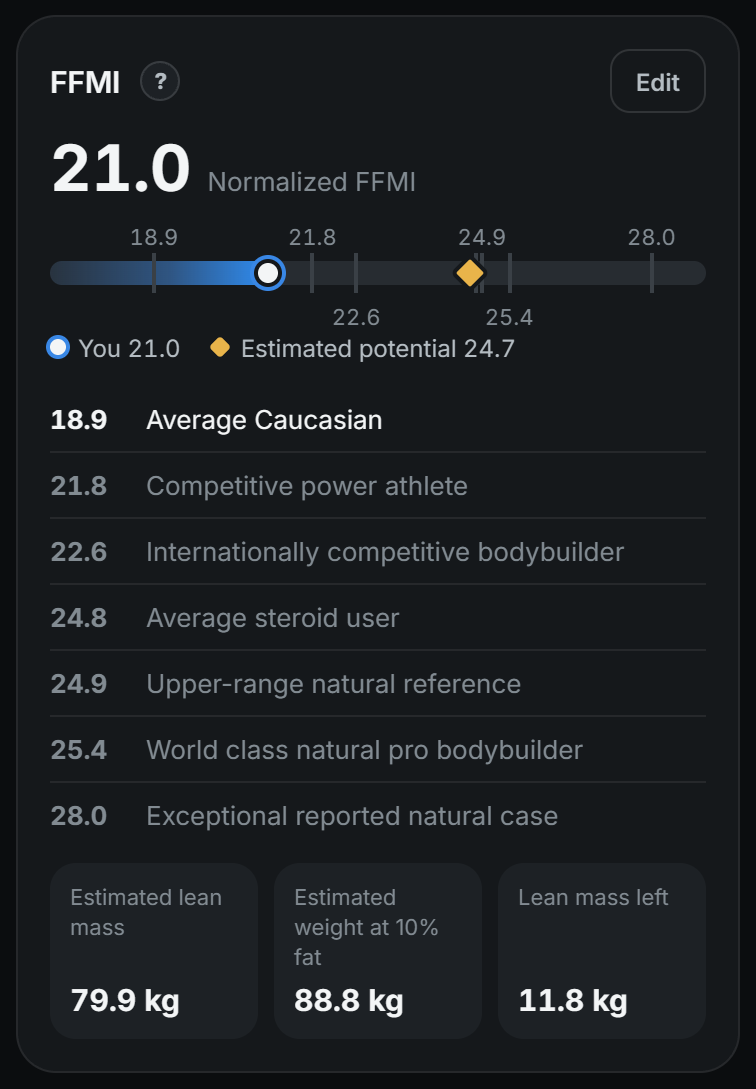
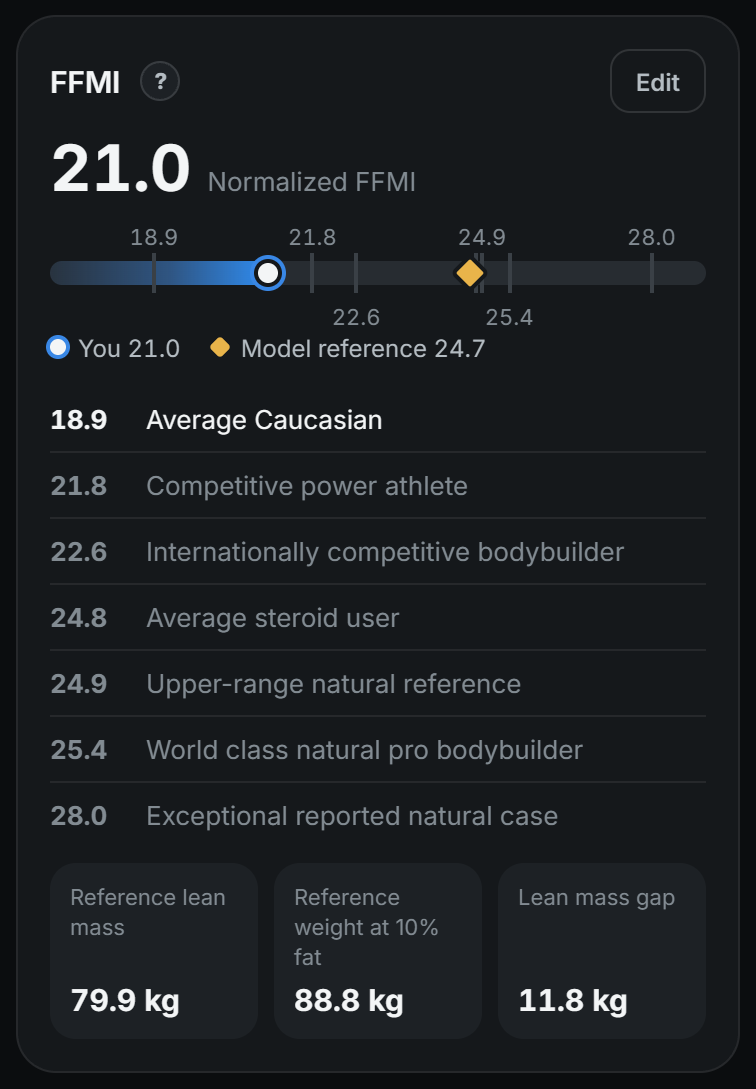
Summarise FFMI methodology and label model reference benchmarks

diff --git a/frontend/src/FfmiHelp.tsx b/frontend/src/FfmiHelp.tsx
@@ -34,9 +34,9 @@ export function FfmiHelp({ title = 'FFMI', children }: { title?: string; childre
             <>
               {children ?? (
                 <p>
-                  FFMI compares fat-free mass with height. The potential marker is a model estimate,
-                  while the comparison labels describe research reference points, including
-                  exceptional cases. They are guides, not guaranteed personal limits.
+                  FFMI compares fat-free mass with height. The model reference is a benchmark based
+                  on groups of trained lifters. It uses the selected profile for comparison, rather
+                  than predicting your personal genetic limit.
                 </p>
               )}
               <p>
@@ -52,68 +52,29 @@ export function FfmiHelp({ title = 'FFMI', children }: { title?: string; childre
           ) : (
             <>
               <p>
-                <strong>Your score.</strong> FFMI relates fat-free mass to height. Fat-free mass
-                includes muscle, bone, organs and water. We use your latest weigh-in with body fat,
-                divide lean mass in kg by height in metres squared, then adjust men to 1.8 m and
-                divide women&apos;s scores by 0.81 for the comparison scale.
+                <strong>Your score.</strong> FFMI is estimated fat-free mass in kg divided by height
+                in metres squared, with height and sex adjustments. Fat-free mass is estimated from
+                weight and body fat; it includes muscle, bone, organs and water.
               </p>
               <p>
-                <strong>Men&apos;s natural potential.</strong> Height, wrist and ankle size estimate
-                the lean mass a fully developed natural lifter might carry. We follow the reference
-                calculator&apos;s Casey Butt model, which draws on the larger sample and revised
-                formulas in the fourth edition of <em>Your Muscular Potential</em>. Earlier online
-                formulas can give higher estimates because they relied on fewer, unusually gifted
-                athletes. Target body fat adjusts the estimate and converts lean mass to bodyweight.
+                <strong>Model reference.</strong> This is a benchmark based on groups of trained
+                lifters, not the general-public average or a prediction of your genetic limit. The
+                men's model uses height, wrist, ankle and target body fat. The women's model uses a
+                raw FFMI reference of 20, about 24.7 on the adjusted scale. Individual outcomes can
+                be above or below these model assumptions.
               </p>
               <p>
-                <strong>Women&apos;s estimate.</strong> We use a raw FFMI reference of 20, informed
-                by Chappell et al. (2018), or about 24.7 on this adjusted scale. This is a model
-                assumption, not a proven limit for every woman. The 0.81 adjustment reflects average
-                female-to-male FFMI ratios in the reference research. Evidence is more limited for
-                women; the reference calculator provides whole-body estimates for women rather than
-                individual body-part potential. Relay&apos;s circumference histories show your
-                recorded measurements separately from its whole-body potential estimate.
+                <strong>Reading the comparison.</strong> A model reference of 24.7 and the
+                exceptional reported case at 28.0 are different comparisons, not guaranteed
+                outcomes. The men's model assumes roughly 4 to 12% body fat. Measurement errors
+                affect results; FFMI cannot establish drug use.
               </p>
               <p>
-                <strong>Research behind the reference.</strong> The source&apos;s probability model
-                pools experienced, drug-tested bodybuilders studied by Kouri (1995), Mäestu (2010)
-                and Chappell (2018). It combines the studies&apos; height-adjusted FFMI averages and
-                spread, corrects for body-composition measurement error, and fits a bell curve to
-                estimate how common a score could be among natural lifters. Relay shows reference
-                levels and whole-body potential; it does not calculate this probability.
+                <strong>Taking measurements.</strong> Keep tape positions consistent without
+                compressing the skin. Measure the wrist below the hand and the ankle at its
+                narrowest point above the ankle bones. Circumferences track body size, not muscle
+                alone.
               </p>
-              <p>
-                <strong>How to interpret it.</strong> These are population-based estimates, not a
-                personal genetic ceiling. The men&apos;s model is intended for very lean physiques,
-                roughly 4–12% body fat; a higher body-fat target does not make it reliable outside
-                that range. Body-fat and tape-measure errors affect the result. An FFMI score cannot
-                establish whether someone uses performance-enhancing drugs.
-              </p>
-              <p>
-                <strong>Taking measurements.</strong> Measure your wrist just below the hand, above
-                the bone on the outside, and your ankle at its narrowest point above the ankle
-                bones. Use a tape without compressing the skin. Height and these frame measurements
-                belong in FFMI details.
-              </p>
-              <p>
-                <strong>Why 24.7 can sit below 28.</strong> The potential marker is an estimate from
-                the selected model. For men it depends on height, frame measurements and target body
-                fat; for women the adjusted reference is about 24.7. The 28.0 comparison point
-                represents an exceptional reported natural case. Neither is a guaranteed personal
-                ceiling: models simplify individual variation, and an unusual reported case is not
-                an expected outcome for everyone.
-              </p>
-              <p>
-                <a
-                  className="ffmi-methodology-link"
-                  href="https://mennohenselmans.com/ffmi-calculator/"
-                  target="_blank"
-                  rel="noreferrer"
-                >
-                  Source: Menno Henselmans&apos; FFMI calculator
-                </a>
-              </p>
-
               <p>
                 <button
                   type="button"

diff --git a/frontend/src/FfmiCard.test.tsx b/frontend/src/FfmiCard.test.tsx
@@ -72,14 +72,12 @@ afterEach(() => {
 });
 
 describe('FfmiCard', () => {
-  it('allows a current score above the estimated potential and distinguishes exceptional references', async () => {
+  it('allows a current score above the model reference and distinguishes exceptional references', async () => {
     await render({ ...emptyProfile, sex: 'male', height_cm: 180, wrist_cm: 17.5, ankle_cm: 22.5 }, [
       { ...measurements[0], weight_kg: 94, body_fat_pct: 10 },
     ]);
     expect(host.querySelector('.ffmi-score strong')?.textContent).toBe('26.1');
-    expect(host.querySelector('.ffmi-scale-key')?.textContent).toBe(
-      'You 26.1Estimated potential 24.7',
-    );
+    expect(host.querySelector('.ffmi-scale-key')?.textContent).toBe('You 26.1Model reference 24.7');
     expect(host.textContent).toContain('Exceptional reported natural case');
     expect(host.textContent).not.toContain('Natural max');
   });
@@ -107,12 +105,10 @@ describe('FfmiCard', () => {
 
     expect(api.updateFfmiProfile).toHaveBeenCalledWith(saved);
     expect(host.querySelector('.ffmi-score strong')?.textContent).toBe('22.9');
-    expect(host.querySelector('.ffmi-scale-key')?.textContent).toBe(
-      'You 22.9Estimated potential 26.9',
-    );
+    expect(host.querySelector('.ffmi-scale-key')?.textContent).toBe('You 22.9Model reference 26.9');
     expect(host.querySelectorAll('.ffmi-legend li.reached')).toHaveLength(3);
     expect(host.querySelector('.ffmi-potential')?.textContent).toContain(
-      'Estimated weight at 13% fat',
+      'Reference weight at 13% fat',
     );
   });
 
@@ -138,7 +134,7 @@ describe('FfmiCard', () => {
     // 79.8 kg at 14.6% and 1.8 m scores exactly 21, shown with its decimal.
     await render(profile, [{ ...measurements[0], weight_kg: 79.8, body_fat_pct: 14.6 }]);
     expect(host.querySelector('.ffmi-score strong')?.textContent).toBe('21.0');
-    expect(host.textContent).toContain('Add wrist and ankle for a potential estimate');
+    expect(host.textContent).toContain('Add wrist and ankle for a model reference');
   });
 
   it('gives women a model reference from height alone', async () => {
@@ -146,8 +142,6 @@ describe('FfmiCard', () => {
       { ...measurements[0], weight_kg: 60, body_fat_pct: 22 },
     ]);
     expect(host.querySelector('.ffmi-score span')?.textContent).toBe('Gender-adjusted FFMI');
-    expect(host.querySelector('.ffmi-scale-key')?.textContent).toBe(
-      'You 21.2Estimated potential 24.7',
-    );
+    expect(host.querySelector('.ffmi-scale-key')?.textContent).toBe('You 21.2Model reference 24.7');
   });
 });

diff --git a/frontend/src/FfmiCard.tsx b/frontend/src/FfmiCard.tsx
@@ -51,7 +51,7 @@ export function FfmiScale({ ffmi, maxFfmi }: { ffmi: number; maxFfmi: number | n
       <div
         className="ffmi-scale-track"
         role="img"
-        aria-label={`Your FFMI ${ffmi.toFixed(1)}${maxFfmi === null ? '' : `, estimated potential ${maxFfmi.toFixed(1)}`}, on a scale from 17 to 29`}
+        aria-label={`Your FFMI ${ffmi.toFixed(1)}${maxFfmi === null ? '' : `, model reference ${maxFfmi.toFixed(1)}`}, on a scale from 17 to 29`}
       >
         <span className="ffmi-scale-fill" style={{ width: `${ffmiScalePercent(ffmi)}%` }} />
         {FFMI_COMPARISON.map(({ value }) => (
@@ -63,7 +63,7 @@ export function FfmiScale({ ffmi, maxFfmi }: { ffmi: number; maxFfmi: number | n
       {labels(true)}
       <div className="ffmi-scale-key">
         <span className="you">You {ffmi.toFixed(1)}</span>
-        {maxFfmi !== null && <span className="max">Estimated potential {maxFfmi.toFixed(1)}</span>}
+        {maxFfmi !== null && <span className="max">Model reference {maxFfmi.toFixed(1)}</span>}
       </div>
     </div>
   );
@@ -219,22 +219,22 @@ export function FfmiCard({
           {potential && (
             <dl className="ffmi-potential">
               <div>
-                <dt>Estimated lean mass</dt>
+                <dt>Reference lean mass</dt>
                 <dd>{formatWeight(potential.maxLeanMassKg, weightUnit, 1)}</dd>
               </div>
               <div>
-                <dt>Estimated weight at {profile.target_body_fat_pct}% fat</dt>
+                <dt>Reference weight at {profile.target_body_fat_pct}% fat</dt>
                 <dd>{formatWeight(potential.maxBodyweightKg, weightUnit, 1)}</dd>
               </div>
               <div>
-                <dt>Lean mass left</dt>
+                <dt>Lean mass gap</dt>
                 <dd>{formatWeight(Math.max(0, potential.leanMassLeftKg), weightUnit, 1)}</dd>
               </div>
             </dl>
           )}
           {needsFrame && (
             <button type="button" className="ffmi-setup" onClick={openEditor}>
-              Add wrist and ankle for a potential estimate
+              Add wrist and ankle for a model reference
             </button>
           )}
         </>

diff --git a/frontend/src/FfmiHelp.test.tsx b/frontend/src/FfmiHelp.test.tsx
@@ -54,10 +54,11 @@ it.each(['FFMI', 'Body measurements'])(
     expect(more.tagName).toBe('BUTTON');
     await act(async () => more.click());
     expect(document.querySelector('dialog h2')?.textContent).toBe('FFMI methodology');
-    expect(document.body.textContent).toContain('Why 24.7 can sit below 28.');
-    expect(document.querySelector('dialog a')?.getAttribute('href')).toBe(
-      'https://mennohenselmans.com/ffmi-calculator/',
+    expect(document.body.textContent).toContain(
+      'not the general-public average or a prediction of your genetic limit.',
     );
+    expect(document.querySelector('dialog a')).toBeNull();
+    expect(document.querySelectorAll('dialog p')).toHaveLength(5);
     await act(async () => button('Back to overview').click());
     expect(document.querySelector('dialog h2')?.textContent).toBe(title);
     expect(document.body.textContent).not.toContain('Your score.');

diff --git a/docs/RELEASE-NOTES.md b/docs/RELEASE-NOTES.md
@@ -16,13 +16,14 @@ _Signing out on desktop also ends the mobile session and clears its unfinished w
 
 _Select a body part to follow its own measurement history. Missing values are skipped and changes use your displayed units. Isolated synthetic measurements._
 
-![Existing Body measurements help with a short introduction and blue in-app Learn more about FFMI methodology link](screenshots/releases/1.1.0-ffmi-methodology.png)
+![Short FFMI methodology summary explaining the model reference and measurement guidance](screenshots/releases/1.1.0-ffmi-methodology.png)
 
-_Both existing Body measurements and FFMI question-marks show a short introduction. Learn more opens the full methodology inside the app, with Back to overview and a source link._
+_Both existing Body measurements and FFMI question-marks show a short introduction. Learn more opens the full methodology inside the app, with Back to overview. The explanation is summarised without study names or external source links._
 
-![Body FFMI card distinguishing Estimated potential at 24.7 from an exceptional reported natural reference at 28.0](screenshots/releases/1.1.0-ffmi.png)
+![Body FFMI card showing a Model reference at 24.7 and an exceptional reported case at 28.0](screenshots/releases/1.1.0-ffmi.png)
 
-_Estimated potential is a guide from the selected model and profile; exceptional reported comparison cases can exceed it. The calculation is unchanged. Synthetic sample data._
+_Model reference is a population-based benchmark, adjusted using the selected profile, rather than a prediction of an individual genetic limit. Calculations are unchanged. Synthetic sample data._
+
 ![Import review mapping Flat bench (old app) to Barbell Bench Press with no new exercises](screenshots/releases/1.1.0-import-exercise-mapping.png)
 
 _Map incoming names to your exercise library, then update the review before saving. Isolated sample data._
@@ -104,7 +105,7 @@ _The exercise card ends at Add set. Set notes and workout notes remain available
 _The circular Start button matches its workout choices. Isolated sample data._
 
 - **Body measurements:** log dated circumferences for neck, shoulders, chest, waist, hips, left/right upper arms, thighs and calves, wrist and ankle. Filter history by body part for dated values and changes from the previous recorded measurement, edit or delete entries, and use cm or inches with your unit preference. No weigh-in is required; records stay private and are included in account backups.
-- Body shows your FFMI on a 17 to 29 comparison scale with research reference levels. Add sex and height (plus wrist and ankle for men) to estimate your potential, lean mass, bodyweight at a target body fat and lean mass remaining. The potential marker is a model estimate, while 28.0 is an exceptional reported natural case. Both existing Body measurements and FFMI question-marks show a short introduction and a blue Learn more about FFMI methodology link that opens the full explanation inside the app.
+- Body shows your FFMI on a 17 to 29 comparison scale alongside a Model reference benchmark. The reference is based on groups of trained lifters and uses the selected profile; it is not a prediction of your genetic limit or a general-public average. Reference lean mass, reference weight at your target body fat and the lean mass gap use the same model. Both existing question-marks offer brief help and an in-app Learn more explanation, now summarised without named studies or external source links.
 - Map incoming exercise names to existing entries during import review. Update the review to recalculate new exercises and duplicates before saving; mappings are checked again when saving.
 - Open **Import history** in **Settings > Data & connections > Import & export** to undo one tracked import. Confirmation removes that batch's sessions (including edits), linked cardio and unedited imported check-ins, then recalculates personal records. Existing check-ins, other sessions and edited imported check-ins are kept. Unused, unchanged custom exercises created by the batch are removed; reused or customised entries stay. Earlier imports cannot be undone as a batch.
 - The bottom Start button is now circular, matching the Cardio, Up next and Empty workout choices. It keeps the same shape when closing the menu, resuming a workout or showing a rest timer.
